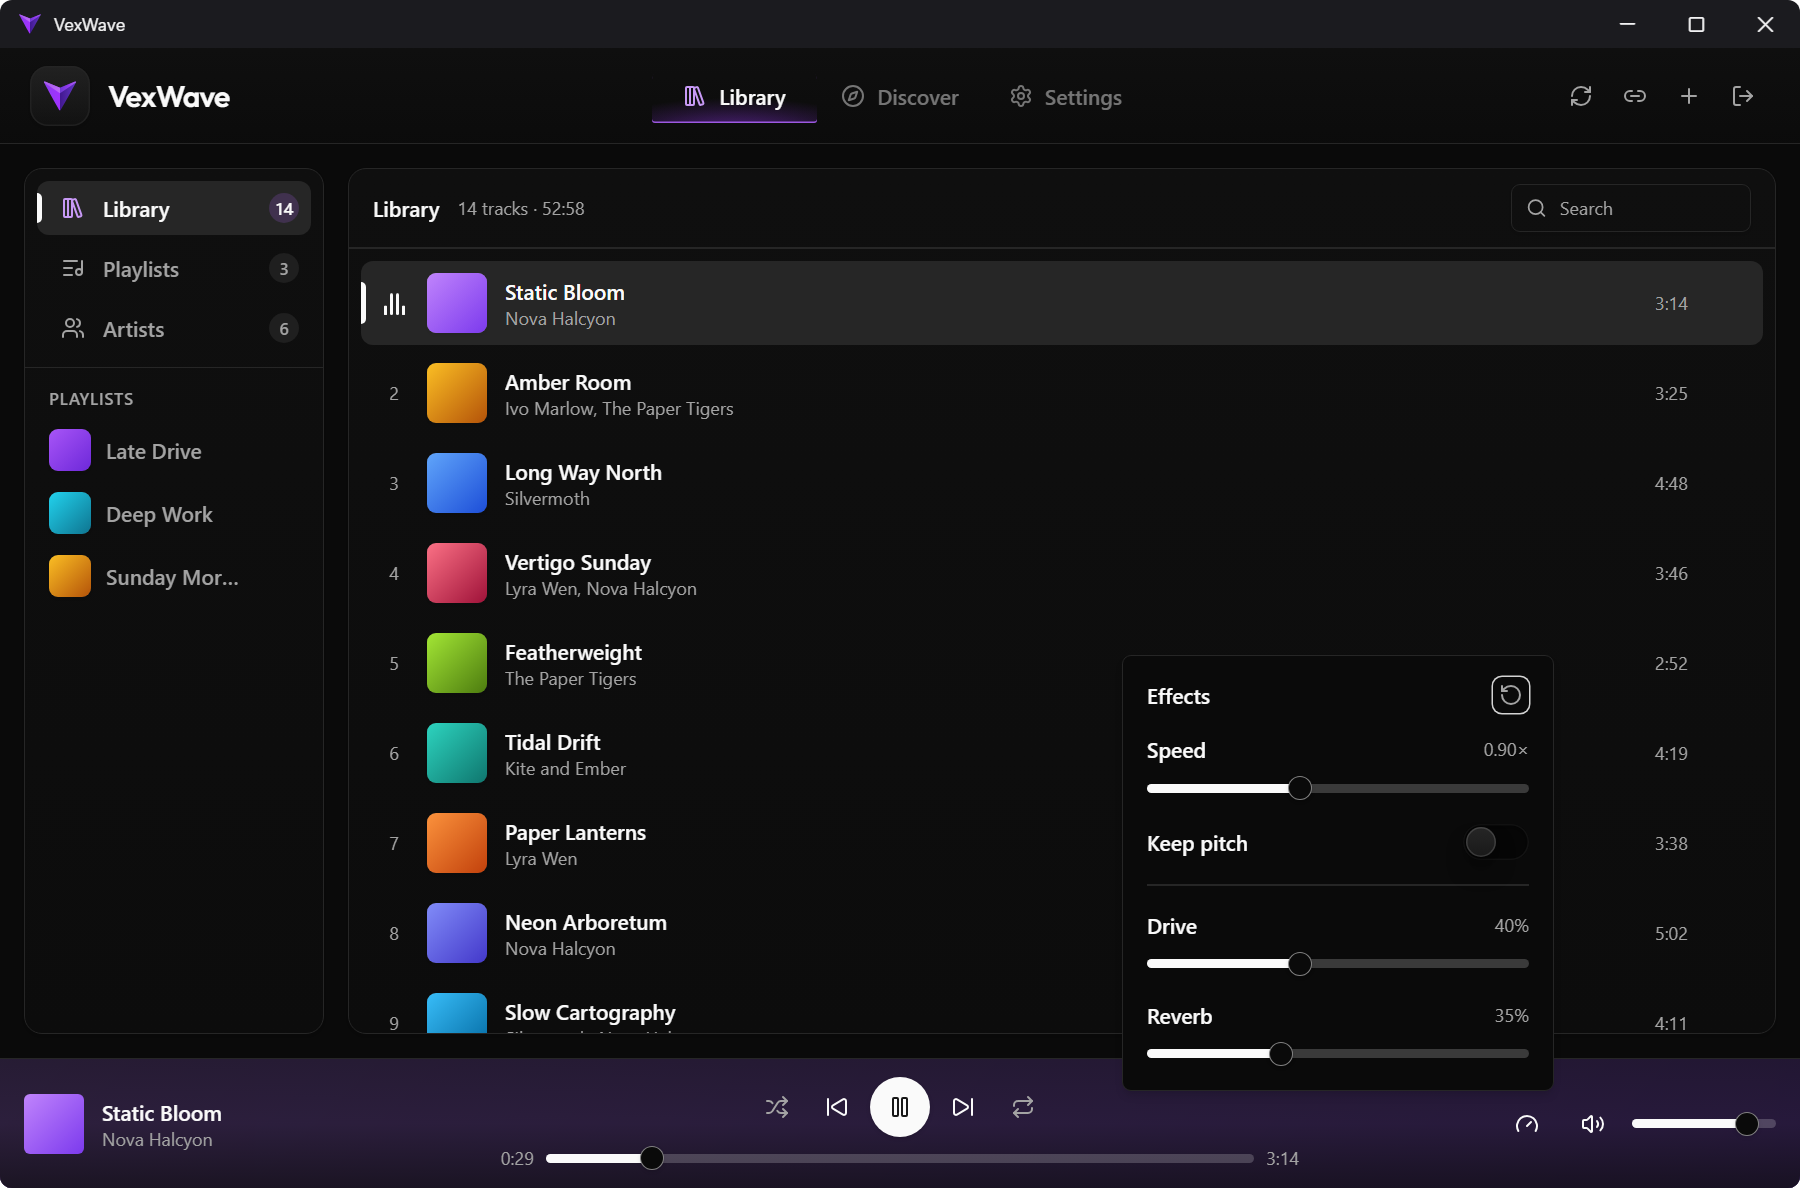
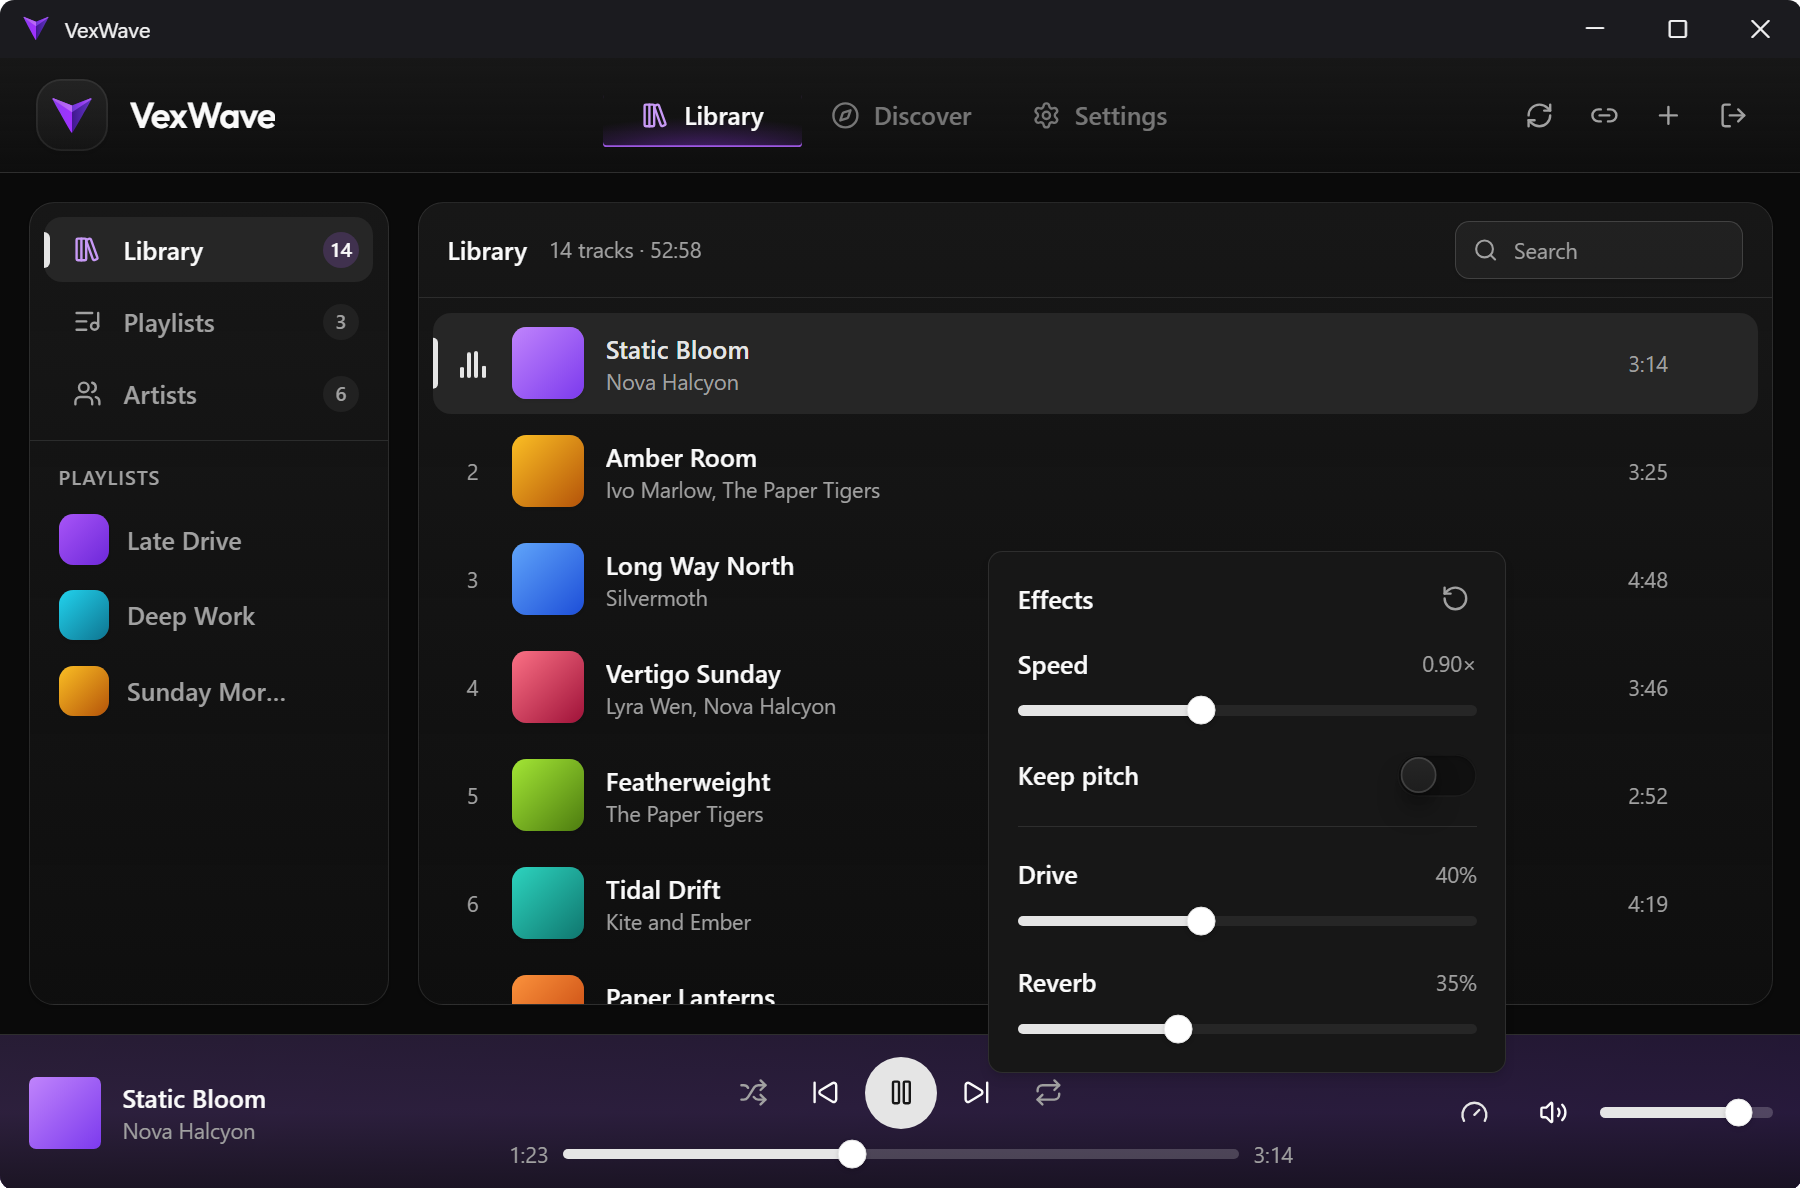
Retake the README screenshots for the current UI
Shot at --zoom=1.2. The unreferenced preview.png from the old sidebar
layout is gone, and the library image links to its full size.

diff --git a/README.md b/README.md
@@ -23,7 +23,7 @@
 
 <br>
 
-<img src="assets/library.png" alt="The VexWave library, with a track playing" width="880">
+<a href="assets/library.png"><img src="assets/library.png" alt="The VexWave library, with a track playing" width="880"></a>
 
 </div>
 
